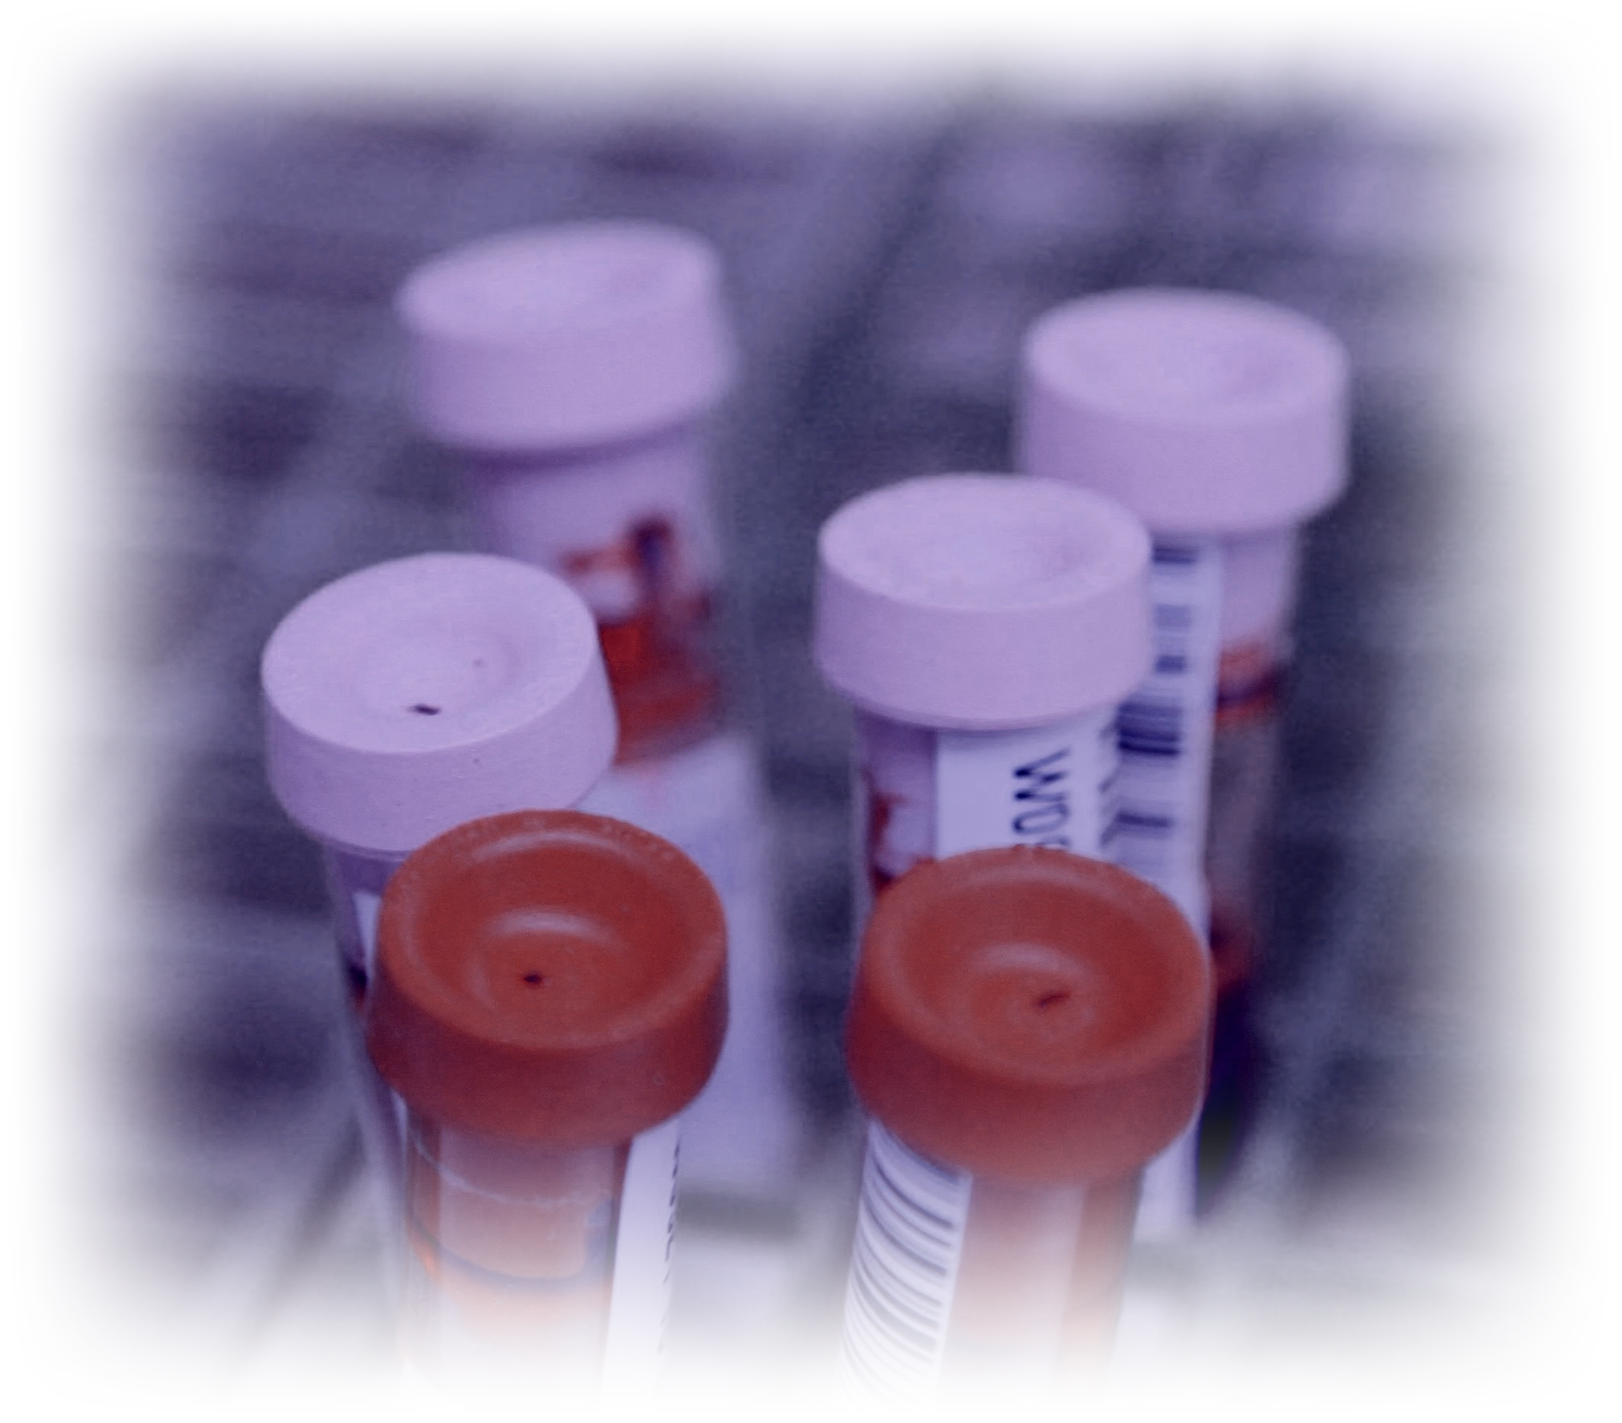
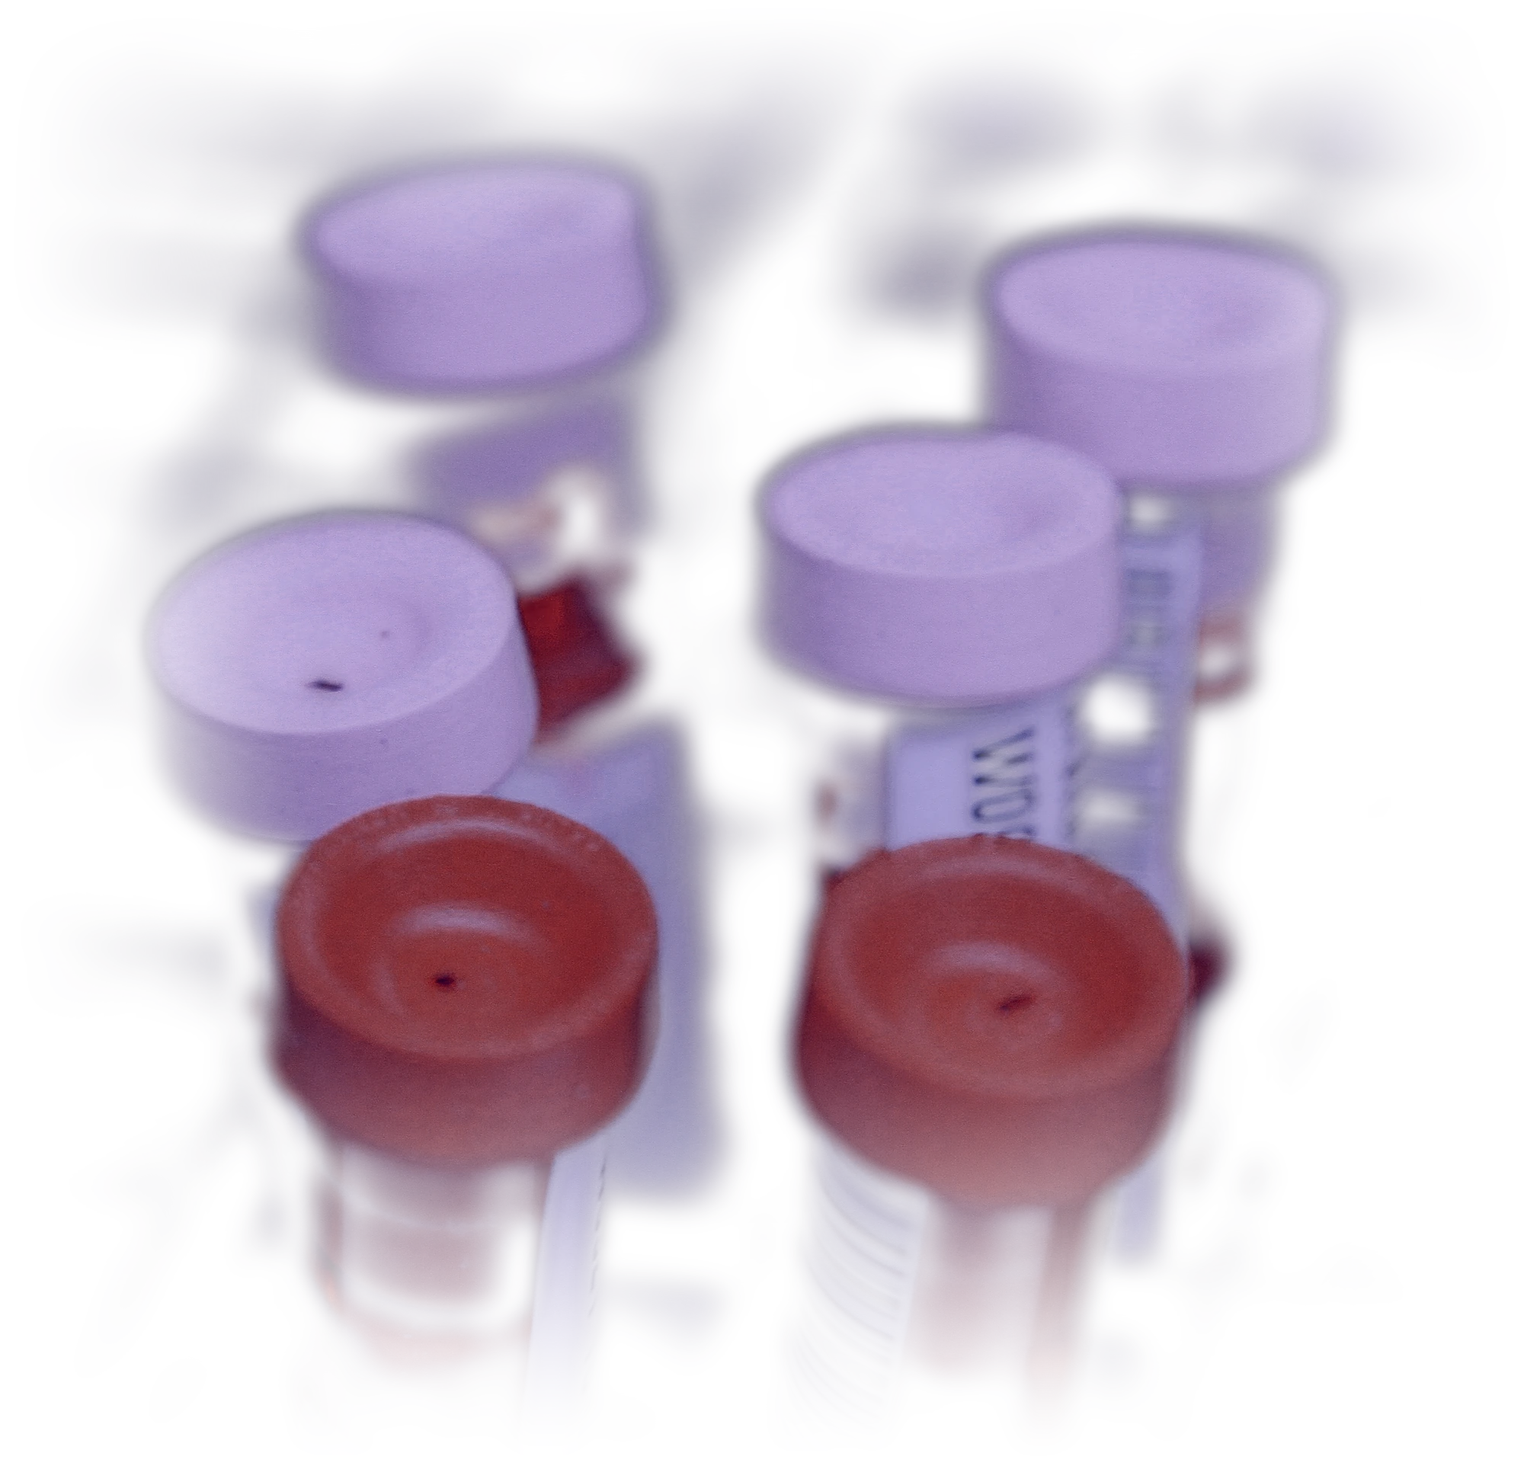
imcarebiotech v2: hero refit (measured open area, full-res source, ground crushed to ink, no box edge)
Claude-Session: https://claude.ai/code/session_014388NDoibjPamYgxsyLbLy

diff --git a/_kit/src/imcarebiotech.src.html b/_kit/src/imcarebiotech.src.html
@@ -1020,18 +1020,24 @@ function unmask(s){if(!s)return;(s.masks||[]).forEach(function(m){m.style.overfl
 var field=(function(){
   var cv=$("#field"),c=cv.getContext("2d"),dpr=1,w=0,h=0,running=false,raf=0,t0=performance.now(),shown=false;
   var IN={v:1},dim=1,dimT=1,SP={v:0},G=null,img=new Image(),ok=false;
-  var BG="#140c1c";var IW=2128,IH=1867,EX=.47,EY=.5;
+  var BG="#140c1c";var IW=2000,IH=1928,EX=.5,EY=.5;
   img.decoding="async";img.onload=function(){ok=true;if(!running)frame(true)};img.src="hero.webp";
   function sm(x){x=x<0?0:x>1?1:x;return x*x*(3-2*x)}
+  /* the open area right of the measured H1 and lede: the photo is fitted whole between their right edge + 100px and the
+     right content margin, centred at ~68-72% of the width, never drawn larger than its native pixels (DO, DI) */
+  function textRight(){var r=0;$$(".hero-h .l, .hero .hero-foot .s").forEach(function(el){var g=document.createRange();g.selectNodeContents(el);var rs=g.getClientRects();for(var i=0;i<rs.length;i++)r=Math.max(r,rs[i].right)});return r}
   function geo(){
     var side=Math.max(Math.min(72,Math.max(16,w*.042)),(w-1320)/2),cw=w-2*side,mob=w<861;
+    if(w>=1800){side=Math.max(Math.min(72,w*.042),(w-1600)/2);cw=w-2*side}
     var U=mob?Math.min(h*.52,w*1.0):h;
-    var ih=mob?U*1.0:Math.min(h*.9,w*.56),iw=ih*(IW/IH);
-    if(mob&&iw<w*1.15){iw=w*1.15;ih=iw*IH/IW}
-    var kx=mob?w*.5:side+cw*.73,ky=mob?U*.52:h*.52;
-    return {mob:mob,side:side,cw:cw,U:U,ih:ih,iw:iw,kx:kx,ky:ky,bh:mob?U:h};
+    if(mob){var mh=U*1.05,mw=mh*(IW/IH);if(mw<w*1.1){mw=w*1.1;mh=mw*IH/IW}return {mob:true,side:side,cw:cw,U:U,ih:mh,iw:mw,kx:w*.5,ky:U*.5,bh:U}}
+    var L=(textRight()||side+cw*.45)+100,R=side+cw,cx=Math.min(Math.max((L+R)/2,w*.68),w*.72);
+    var half=Math.max(80,Math.min(cx-L,R-cx));
+    /* the elliptical feather reaches zero at the box edge, so the box is the visible extent; kept clear of the nav */
+    var iw=Math.min(half*2/.85,(h-190)*(IW/IH),IW/Math.min(window.devicePixelRatio||1,2)),ih=iw*IH/IW;
+    return {mob:false,side:side,cw:cw,U:U,ih:ih,iw:iw,kx:cx,ky:h*.54+20,bh:h};
   }
-  function size(){dpr=Math.min(window.devicePixelRatio||1,2);w=document.documentElement.clientWidth||innerWidth;h=innerHeight;cv.width=Math.round(w*dpr);cv.height=Math.round(h*dpr);G=geo();if(!running)frame(true)}
+  function size(){dpr=Math.min(window.devicePixelRatio||1,2);w=document.documentElement.clientWidth||innerWidth;h=innerHeight;cv.width=Math.round(w*dpr);cv.height=Math.round(h*dpr);G=geo();setTimeout(function(){G=geo();if(!running)frame(true)},1200);if(!running)frame(true)}
   var lastF=0;
   function frame(once){
     var now=performance.now();
@@ -1044,15 +1050,9 @@ var field=(function(){
       var k=.5-.5*Math.cos(t*Math.PI*2/40),sc=(1+.04*k)*(1+.035*(1-e));
       var dw=G.iw*sc,dh=G.ih*sc,x=G.kx-dw*EX-k*G.iw*.01,y=G.ky-dh*EY-SP.v*G.ih*.05;
       c.globalAlpha=e;c.drawImage(img,x,y,dw,dh);c.globalAlpha=1;
-      if(x>0){c.fillStyle=BG;c.fillRect(0,0,Math.ceil(x)+1,h);var eg=c.createLinearGradient(x,0,x+dw*.16,0);eg.addColorStop(0,"rgba(20,12,28,1)");eg.addColorStop(1,"rgba(20,12,28,0)");c.fillStyle=eg;c.fillRect(x,0,dw*.16+1,h)}
-      var xr=x+dw;if(xr<w+dw*.16){var rg=c.createLinearGradient(xr-dw*.16,0,xr,0);rg.addColorStop(0,"rgba(20,12,28,0)");rg.addColorStop(1,"rgba(20,12,28,1)");c.fillStyle=rg;c.fillRect(xr-dw*.16,0,dw*.16+1,h);if(xr<w){c.fillStyle=BG;c.fillRect(Math.floor(xr)-1,0,w-xr+2,h)}}
-      /* the right edge of the viewport always closes into the ink, so the photo never ends on a hard edge (DJ) */
-      var rv=c.createLinearGradient(w-Math.max(90,w*.1),0,w,0);rv.addColorStop(0,"rgba(20,12,28,0)");rv.addColorStop(1,"rgba(20,12,28,.92)");c.fillStyle=rv;c.fillRect(w-Math.max(90,w*.1),0,Math.max(90,w*.1)+1,h);
       if(!G.mob){
-        /* the headline side stays quiet: a deep ink wash from the left, a soft top and base */
-        var lv=c.createLinearGradient(0,0,G.side+G.cw*.62,0);lv.addColorStop(0,"rgba(20,12,28,1)");lv.addColorStop(.55,"rgba(20,12,28,.9)");lv.addColorStop(.82,"rgba(20,12,28,.45)");lv.addColorStop(1,"rgba(20,12,28,0)");c.fillStyle=lv;c.fillRect(0,0,w,h);
+        /* the photo self-feathers (elliptical mask) and sits clear of the text; only a soft top under the nav */
         var tv=c.createLinearGradient(0,0,0,h*.22);tv.addColorStop(0,"rgba(20,12,28,.7)");tv.addColorStop(1,"rgba(20,12,28,0)");c.fillStyle=tv;c.fillRect(0,0,w,h*.22);
-        var bv=c.createLinearGradient(0,h*.66,0,h);bv.addColorStop(0,"rgba(20,12,28,0)");bv.addColorStop(1,"rgba(20,12,28,.9)");c.fillStyle=bv;c.fillRect(0,h*.66,w,h*.34+1);
       }else{
         var tv2=c.createLinearGradient(0,0,0,G.bh*.3);tv2.addColorStop(0,"rgba(20,12,28,.75)");tv2.addColorStop(1,"rgba(20,12,28,0)");c.fillStyle=tv2;c.fillRect(0,0,w,G.bh*.3);
         var mv=c.createLinearGradient(0,G.bh*.7,0,G.bh);mv.addColorStop(0,"rgba(20,12,28,0)");mv.addColorStop(1,"rgba(20,12,28,1)");c.fillStyle=mv;c.fillRect(0,G.bh*.7,w,G.bh*.3+1);

diff --git a/imcarebiotech/index.html b/imcarebiotech/index.html
@@ -1584,18 +1584,24 @@ function unmask(s){if(!s)return;(s.masks||[]).forEach(function(m){m.style.overfl
 var field=(function(){
   var cv=$("#field"),c=cv.getContext("2d"),dpr=1,w=0,h=0,running=false,raf=0,t0=performance.now(),shown=false;
   var IN={v:1},dim=1,dimT=1,SP={v:0},G=null,img=new Image(),ok=false;
-  var BG="#140c1c";var IW=2128,IH=1867,EX=.47,EY=.5;
+  var BG="#140c1c";var IW=2000,IH=1928,EX=.5,EY=.5;
   img.decoding="async";img.onload=function(){ok=true;if(!running)frame(true)};img.src="hero.webp";
   function sm(x){x=x<0?0:x>1?1:x;return x*x*(3-2*x)}
+  /* the open area right of the measured H1 and lede: the photo is fitted whole between their right edge + 100px and the
+     right content margin, centred at ~68-72% of the width, never drawn larger than its native pixels (DO, DI) */
+  function textRight(){var r=0;$$(".hero-h .l, .hero .hero-foot .s").forEach(function(el){var g=document.createRange();g.selectNodeContents(el);var rs=g.getClientRects();for(var i=0;i<rs.length;i++)r=Math.max(r,rs[i].right)});return r}
   function geo(){
     var side=Math.max(Math.min(72,Math.max(16,w*.042)),(w-1320)/2),cw=w-2*side,mob=w<861;
+    if(w>=1800){side=Math.max(Math.min(72,w*.042),(w-1600)/2);cw=w-2*side}
     var U=mob?Math.min(h*.52,w*1.0):h;
-    var ih=mob?U*1.0:Math.min(h*.9,w*.56),iw=ih*(IW/IH);
-    if(mob&&iw<w*1.15){iw=w*1.15;ih=iw*IH/IW}
-    var kx=mob?w*.5:side+cw*.73,ky=mob?U*.52:h*.52;
-    return {mob:mob,side:side,cw:cw,U:U,ih:ih,iw:iw,kx:kx,ky:ky,bh:mob?U:h};
+    if(mob){var mh=U*1.05,mw=mh*(IW/IH);if(mw<w*1.1){mw=w*1.1;mh=mw*IH/IW}return {mob:true,side:side,cw:cw,U:U,ih:mh,iw:mw,kx:w*.5,ky:U*.5,bh:U}}
+    var L=(textRight()||side+cw*.45)+100,R=side+cw,cx=Math.min(Math.max((L+R)/2,w*.68),w*.72);
+    var half=Math.max(80,Math.min(cx-L,R-cx));
+    /* the elliptical feather reaches zero at the box edge, so the box is the visible extent; kept clear of the nav */
+    var iw=Math.min(half*2/.85,(h-190)*(IW/IH),IW/Math.min(window.devicePixelRatio||1,2)),ih=iw*IH/IW;
+    return {mob:false,side:side,cw:cw,U:U,ih:ih,iw:iw,kx:cx,ky:h*.54+20,bh:h};
   }
-  function size(){dpr=Math.min(window.devicePixelRatio||1,2);w=document.documentElement.clientWidth||innerWidth;h=innerHeight;cv.width=Math.round(w*dpr);cv.height=Math.round(h*dpr);G=geo();if(!running)frame(true)}
+  function size(){dpr=Math.min(window.devicePixelRatio||1,2);w=document.documentElement.clientWidth||innerWidth;h=innerHeight;cv.width=Math.round(w*dpr);cv.height=Math.round(h*dpr);G=geo();setTimeout(function(){G=geo();if(!running)frame(true)},1200);if(!running)frame(true)}
   var lastF=0;
   function frame(once){
     var now=performance.now();
@@ -1608,15 +1614,9 @@ var field=(function(){
       var k=.5-.5*Math.cos(t*Math.PI*2/40),sc=(1+.04*k)*(1+.035*(1-e));
       var dw=G.iw*sc,dh=G.ih*sc,x=G.kx-dw*EX-k*G.iw*.01,y=G.ky-dh*EY-SP.v*G.ih*.05;
       c.globalAlpha=e;c.drawImage(img,x,y,dw,dh);c.globalAlpha=1;
-      if(x>0){c.fillStyle=BG;c.fillRect(0,0,Math.ceil(x)+1,h);var eg=c.createLinearGradient(x,0,x+dw*.16,0);eg.addColorStop(0,"rgba(20,12,28,1)");eg.addColorStop(1,"rgba(20,12,28,0)");c.fillStyle=eg;c.fillRect(x,0,dw*.16+1,h)}
-      var xr=x+dw;if(xr<w+dw*.16){var rg=c.createLinearGradient(xr-dw*.16,0,xr,0);rg.addColorStop(0,"rgba(20,12,28,0)");rg.addColorStop(1,"rgba(20,12,28,1)");c.fillStyle=rg;c.fillRect(xr-dw*.16,0,dw*.16+1,h);if(xr<w){c.fillStyle=BG;c.fillRect(Math.floor(xr)-1,0,w-xr+2,h)}}
-      /* the right edge of the viewport always closes into the ink, so the photo never ends on a hard edge (DJ) */
-      var rv=c.createLinearGradient(w-Math.max(90,w*.1),0,w,0);rv.addColorStop(0,"rgba(20,12,28,0)");rv.addColorStop(1,"rgba(20,12,28,.92)");c.fillStyle=rv;c.fillRect(w-Math.max(90,w*.1),0,Math.max(90,w*.1)+1,h);
       if(!G.mob){
-        /* the headline side stays quiet: a deep ink wash from the left, a soft top and base */
-        var lv=c.createLinearGradient(0,0,G.side+G.cw*.62,0);lv.addColorStop(0,"rgba(20,12,28,1)");lv.addColorStop(.55,"rgba(20,12,28,.9)");lv.addColorStop(.82,"rgba(20,12,28,.45)");lv.addColorStop(1,"rgba(20,12,28,0)");c.fillStyle=lv;c.fillRect(0,0,w,h);
+        /* the photo self-feathers (elliptical mask) and sits clear of the text; only a soft top under the nav */
         var tv=c.createLinearGradient(0,0,0,h*.22);tv.addColorStop(0,"rgba(20,12,28,.7)");tv.addColorStop(1,"rgba(20,12,28,0)");c.fillStyle=tv;c.fillRect(0,0,w,h*.22);
-        var bv=c.createLinearGradient(0,h*.66,0,h);bv.addColorStop(0,"rgba(20,12,28,0)");bv.addColorStop(1,"rgba(20,12,28,.9)");c.fillStyle=bv;c.fillRect(0,h*.66,w,h*.34+1);
       }else{
         var tv2=c.createLinearGradient(0,0,0,G.bh*.3);tv2.addColorStop(0,"rgba(20,12,28,.75)");tv2.addColorStop(1,"rgba(20,12,28,0)");c.fillStyle=tv2;c.fillRect(0,0,w,G.bh*.3);
         var mv=c.createLinearGradient(0,G.bh*.7,0,G.bh);mv.addColorStop(0,"rgba(20,12,28,0)");mv.addColorStop(1,"rgba(20,12,28,1)");c.fillStyle=mv;c.fillRect(0,G.bh*.7,w,G.bh*.3+1);

diff --git a/_kit/home/imcarebiotech/field.js b/_kit/home/imcarebiotech/field.js
@@ -7,18 +7,24 @@
 var field=(function(){
   var cv=$("#field"),c=cv.getContext("2d"),dpr=1,w=0,h=0,running=false,raf=0,t0=performance.now(),shown=false;
   var IN={v:1},dim=1,dimT=1,SP={v:0},G=null,img=new Image(),ok=false;
-  var BG="#140c1c";var IW=2128,IH=1867,EX=.47,EY=.5;
+  var BG="#140c1c";var IW=2000,IH=1928,EX=.5,EY=.5;
   img.decoding="async";img.onload=function(){ok=true;if(!running)frame(true)};img.src="hero.webp";
   function sm(x){x=x<0?0:x>1?1:x;return x*x*(3-2*x)}
+  /* the open area right of the measured H1 and lede: the photo is fitted whole between their right edge + 100px and the
+     right content margin, centred at ~68-72% of the width, never drawn larger than its native pixels (DO, DI) */
+  function textRight(){var r=0;$$(".hero-h .l, .hero .hero-foot .s").forEach(function(el){var g=document.createRange();g.selectNodeContents(el);var rs=g.getClientRects();for(var i=0;i<rs.length;i++)r=Math.max(r,rs[i].right)});return r}
   function geo(){
     var side=Math.max(Math.min(72,Math.max(16,w*.042)),(w-1320)/2),cw=w-2*side,mob=w<861;
+    if(w>=1800){side=Math.max(Math.min(72,w*.042),(w-1600)/2);cw=w-2*side}
     var U=mob?Math.min(h*.52,w*1.0):h;
-    var ih=mob?U*1.0:Math.min(h*.9,w*.56),iw=ih*(IW/IH);
-    if(mob&&iw<w*1.15){iw=w*1.15;ih=iw*IH/IW}
-    var kx=mob?w*.5:side+cw*.73,ky=mob?U*.52:h*.52;
-    return {mob:mob,side:side,cw:cw,U:U,ih:ih,iw:iw,kx:kx,ky:ky,bh:mob?U:h};
+    if(mob){var mh=U*1.05,mw=mh*(IW/IH);if(mw<w*1.1){mw=w*1.1;mh=mw*IH/IW}return {mob:true,side:side,cw:cw,U:U,ih:mh,iw:mw,kx:w*.5,ky:U*.5,bh:U}}
+    var L=(textRight()||side+cw*.45)+100,R=side+cw,cx=Math.min(Math.max((L+R)/2,w*.68),w*.72);
+    var half=Math.max(80,Math.min(cx-L,R-cx));
+    /* the elliptical feather reaches zero at the box edge, so the box is the visible extent; kept clear of the nav */
+    var iw=Math.min(half*2/.85,(h-190)*(IW/IH),IW/Math.min(window.devicePixelRatio||1,2)),ih=iw*IH/IW;
+    return {mob:false,side:side,cw:cw,U:U,ih:ih,iw:iw,kx:cx,ky:h*.54+20,bh:h};
   }
-  function size(){dpr=Math.min(window.devicePixelRatio||1,2);w=document.documentElement.clientWidth||innerWidth;h=innerHeight;cv.width=Math.round(w*dpr);cv.height=Math.round(h*dpr);G=geo();if(!running)frame(true)}
+  function size(){dpr=Math.min(window.devicePixelRatio||1,2);w=document.documentElement.clientWidth||innerWidth;h=innerHeight;cv.width=Math.round(w*dpr);cv.height=Math.round(h*dpr);G=geo();setTimeout(function(){G=geo();if(!running)frame(true)},1200);if(!running)frame(true)}
   var lastF=0;
   function frame(once){
     var now=performance.now();
@@ -31,15 +37,9 @@ var field=(function(){
       var k=.5-.5*Math.cos(t*Math.PI*2/40),sc=(1+.04*k)*(1+.035*(1-e));
       var dw=G.iw*sc,dh=G.ih*sc,x=G.kx-dw*EX-k*G.iw*.01,y=G.ky-dh*EY-SP.v*G.ih*.05;
       c.globalAlpha=e;c.drawImage(img,x,y,dw,dh);c.globalAlpha=1;
-      if(x>0){c.fillStyle=BG;c.fillRect(0,0,Math.ceil(x)+1,h);var eg=c.createLinearGradient(x,0,x+dw*.16,0);eg.addColorStop(0,"rgba(20,12,28,1)");eg.addColorStop(1,"rgba(20,12,28,0)");c.fillStyle=eg;c.fillRect(x,0,dw*.16+1,h)}
-      var xr=x+dw;if(xr<w+dw*.16){var rg=c.createLinearGradient(xr-dw*.16,0,xr,0);rg.addColorStop(0,"rgba(20,12,28,0)");rg.addColorStop(1,"rgba(20,12,28,1)");c.fillStyle=rg;c.fillRect(xr-dw*.16,0,dw*.16+1,h);if(xr<w){c.fillStyle=BG;c.fillRect(Math.floor(xr)-1,0,w-xr+2,h)}}
-      /* the right edge of the viewport always closes into the ink, so the photo never ends on a hard edge (DJ) */
-      var rv=c.createLinearGradient(w-Math.max(90,w*.1),0,w,0);rv.addColorStop(0,"rgba(20,12,28,0)");rv.addColorStop(1,"rgba(20,12,28,.92)");c.fillStyle=rv;c.fillRect(w-Math.max(90,w*.1),0,Math.max(90,w*.1)+1,h);
       if(!G.mob){
-        /* the headline side stays quiet: a deep ink wash from the left, a soft top and base */
-        var lv=c.createLinearGradient(0,0,G.side+G.cw*.62,0);lv.addColorStop(0,"rgba(20,12,28,1)");lv.addColorStop(.55,"rgba(20,12,28,.9)");lv.addColorStop(.82,"rgba(20,12,28,.45)");lv.addColorStop(1,"rgba(20,12,28,0)");c.fillStyle=lv;c.fillRect(0,0,w,h);
+        /* the photo self-feathers (elliptical mask) and sits clear of the text; only a soft top under the nav */
         var tv=c.createLinearGradient(0,0,0,h*.22);tv.addColorStop(0,"rgba(20,12,28,.7)");tv.addColorStop(1,"rgba(20,12,28,0)");c.fillStyle=tv;c.fillRect(0,0,w,h*.22);
-        var bv=c.createLinearGradient(0,h*.66,0,h);bv.addColorStop(0,"rgba(20,12,28,0)");bv.addColorStop(1,"rgba(20,12,28,.9)");c.fillStyle=bv;c.fillRect(0,h*.66,w,h*.34+1);
       }else{
         var tv2=c.createLinearGradient(0,0,0,G.bh*.3);tv2.addColorStop(0,"rgba(20,12,28,.75)");tv2.addColorStop(1,"rgba(20,12,28,0)");c.fillStyle=tv2;c.fillRect(0,0,w,G.bh*.3);
         var mv=c.createLinearGradient(0,G.bh*.7,0,G.bh);mv.addColorStop(0,"rgba(20,12,28,0)");mv.addColorStop(1,"rgba(20,12,28,1)");c.fillStyle=mv;c.fillRect(0,G.bh*.7,w,G.bh*.3+1);

diff --git a/_kit/home/imcarebiotech/grade.py b/_kit/home/imcarebiotech/grade.py
@@ -1,14 +1,15 @@
 #!/usr/bin/env python3
 """Grade the NCI Unsplash photo (blood samples in a rack) for the ImCare hero.
 Source: https://unsplash.com/photos/white-and-red-plastic-tools-9k4Fglw6eFQ (National Cancer Institute, Unsplash License)
-CDN https://images.unsplash.com/photo-1581594693702-fbdc51b2763b (2800 px). Usage: grade.py in.jpg out.webp
+CDN https://images.unsplash.com/photo-1581594693702-fbdc51b2763b (full 5184 px). Usage: grade.py in.jpg out.webp
 The bright yellow rack is pulled down to a dim plum lattice; the lavender caps (close to the logo lavender) and the blood
 keep their colour; edges feather to transparent so the art closes into the page ink (DJ)."""
 import sys, numpy as np
 from PIL import Image, ImageFilter
 im = Image.open(sys.argv[1]).convert('RGB')
 W, H = im.size
-im = im.crop((int(W*.04), 0, int(W*.80), H))
+im = im.crop((int(W*.10), int(H*.06), int(W*.75), H))
+im = im.resize((2000, round(2000*im.height/im.width)), Image.LANCZOS).filter(ImageFilter.UnsharpMask(radius=1.6, percent=70, threshold=2))
 a = np.asarray(im).astype(np.float32)/255
 # a smooth global colour remap (no masks, so no halos): fitted on pairs sampled from the photo
 #   yellow rack -> deep plum, pale rack highlights -> muted plum, lavender caps -> logo lavender,
@@ -19,11 +20,21 @@ X = np.hstack([src, np.ones((len(src),1))])
 M, *_ = np.linalg.lstsq(X, dst, rcond=None)
 out = np.clip(np.concatenate([a, np.ones(a.shape[:2]+(1,),np.float32)], -1) @ M.astype(np.float32), 0, 1)
 out = out*.92
-# feather every edge to transparent
+# v2: the out-of-focus rack is crushed into the page ink so only the tubes carry light (no soft grey panel, no box edge);
+# blood and the red caps are protected by their redness
+def ss(x): x = np.clip(x, 0, 1); return x*x*(3-2*x)
+src0 = a; R0, G0, B0 = src0[...,0], src0[...,1], src0[...,2]
+red = ss((R0-np.maximum(G0, B0)-.04)/.25)
+L2 = out.mean(-1)
+keep = np.clip(ss((L2-.28)/.42) + red, 0, 1)
+keep = np.asarray(Image.fromarray((keep*255).astype(np.uint8)).filter(ImageFilter.GaussianBlur(14))).astype(np.float32)/255
+ink = np.array([20,12,28], np.float32)/255
+out = ink + (out-ink)*(.38+.62*keep)[...,None]
+# alpha: the crushed ground is transparent; a long eased fade at every edge of the crop
 hh, ww = out.shape[:2]
 yy = np.linspace(0, 1, hh)[:, None]; xx = np.linspace(0, 1, ww)[None, :]
-def ss(x): x = np.clip(x, 0, 1); return x*x*(3-2*x)
-al = ss(xx/.16)*ss((1-xx)/.2)*ss(yy/.12)*ss((1-yy)/.26)
+edge = ss(xx/.22)*ss((1-xx)/.22)*ss(yy/.18)*ss((1-yy)/.34)
+al = np.clip(keep*1.15, 0, 1)**1.1*edge
 o = np.dstack([out, al])
 Image.fromarray((o*255+.5).astype(np.uint8), 'RGBA').save(sys.argv[2], quality=92, method=6)
 print('wrote', sys.argv[2], ww, hh)

diff --git a/_kit/dossiers/imcarebiotech.md b/_kit/dossiers/imcarebiotech.md
@@ -24,6 +24,6 @@ Sources, fetched 2026-11-20: imcarebiotech.com (home, /about-us/, /imcare-team/,
 - Live site: white, logo purple #7030a0 and lavender #d5b8ea (sampled from the logo PNG; custom.css also #9a57cd, #f3ecf9). Concept: deep plum ink #140c1c, lavender-white bone #f6f2f9, accent lavender #d5b8ea on dark and logo purple #7030a0 on light. Logo reversed for the dark ground (purple -> #f3ecf9, lavender kept). Figtree type (rounded humanist, close to the logo lettering).
 
 ## Build notes
-- Hero (HOME_BRIEF update option b): National Cancer Institute, "Six blood samples in test tubes" (title "White and red plastic tools"), Unsplash License: https://unsplash.com/photos/white-and-red-plastic-tools-9k4Fglw6eFQ — CDN https://images.unsplash.com/photo-1581594693702-fbdc51b2763b (2800 px). Graded by _kit/home/imcarebiotech/grade.py (global colour remap: yellow rack -> plum, lavender caps kept near the logo lavender; edges feathered to transparent) to imcarebiotech/hero.webp. Tubes centred ~70% width right of the text, ink wash on the headline side, slow Ken Burns. ImCare's own photos (lab 3-panel 1024 px, stock microscope/pills) are too small/stock for option (a).
+- Hero v2 (HOME_BRIEF update option b, after coordinator review of v1: photo crowded the H1, soft, feathered box edge): same photograph, National Cancer Institute, "Six blood samples in test tubes", Unsplash License: https://unsplash.com/photos/white-and-red-plastic-tools-9k4Fglw6eFQ — now from the full 5184 px original (CDN https://images.unsplash.com/photo-1581594693702-fbdc51b2763b), cropped to the tubes, resampled to 2000 px and lightly sharpened. grade.py: global colour remap (yellow rack -> plum, caps kept near the logo lavender), then the out-of-focus rack is crushed into the page ink and made transparent so only the tubes carry light (no panel, no box edge). field.js measures the H1/lede right edge and fits the photo between it + 100 px and the right content margin, centred at 68-72% width, never drawn above native resolution. Checked 1920x1080, 1920x930, 1440x900, 1280x800, 390. Rejected alternative: Testalize.me BD Vacutainer flat-lay (third-party branding on labels).
 - Story: engraved schematic accumulating liver with tumour -> LC-SPIK into a blood sample (serum over cells) -> ELISA well with capture antibodies holding LC-SPIK -> LC-SPIK, AFP, DCP bars combined into Seravue AI.
 - Nav items (Technology, Pipeline, Team, News) open build-out pages via _kit/lib/buildout.js; Contact scrolls to the contact block (mailto info@imcarebiotech.com, address, phone).
